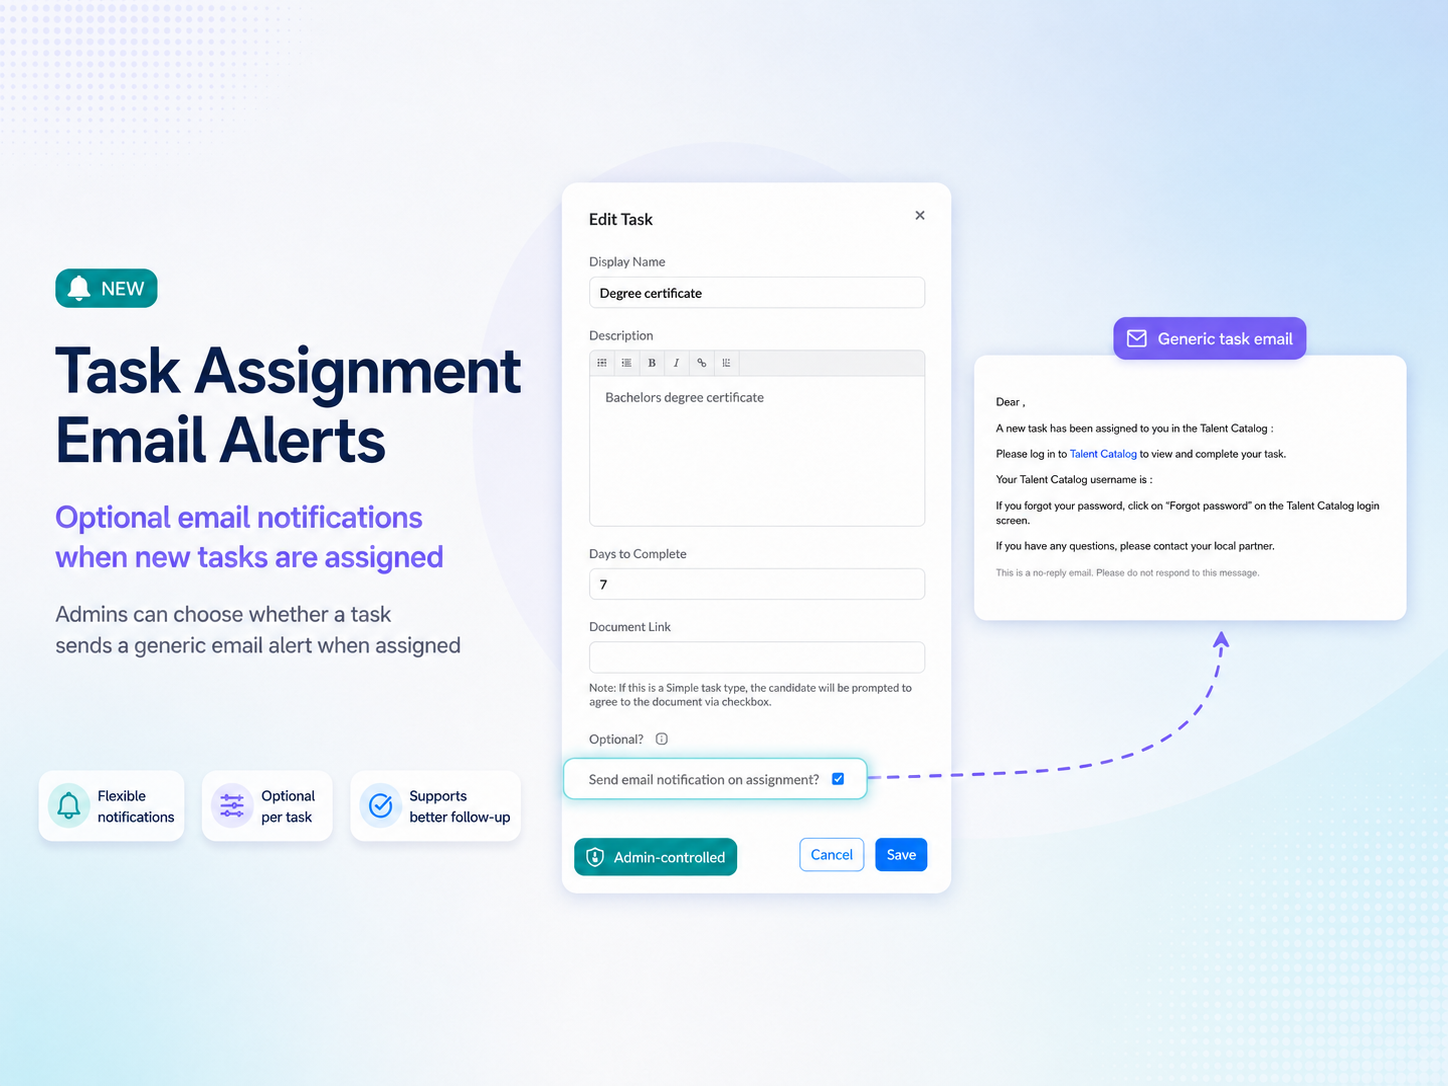
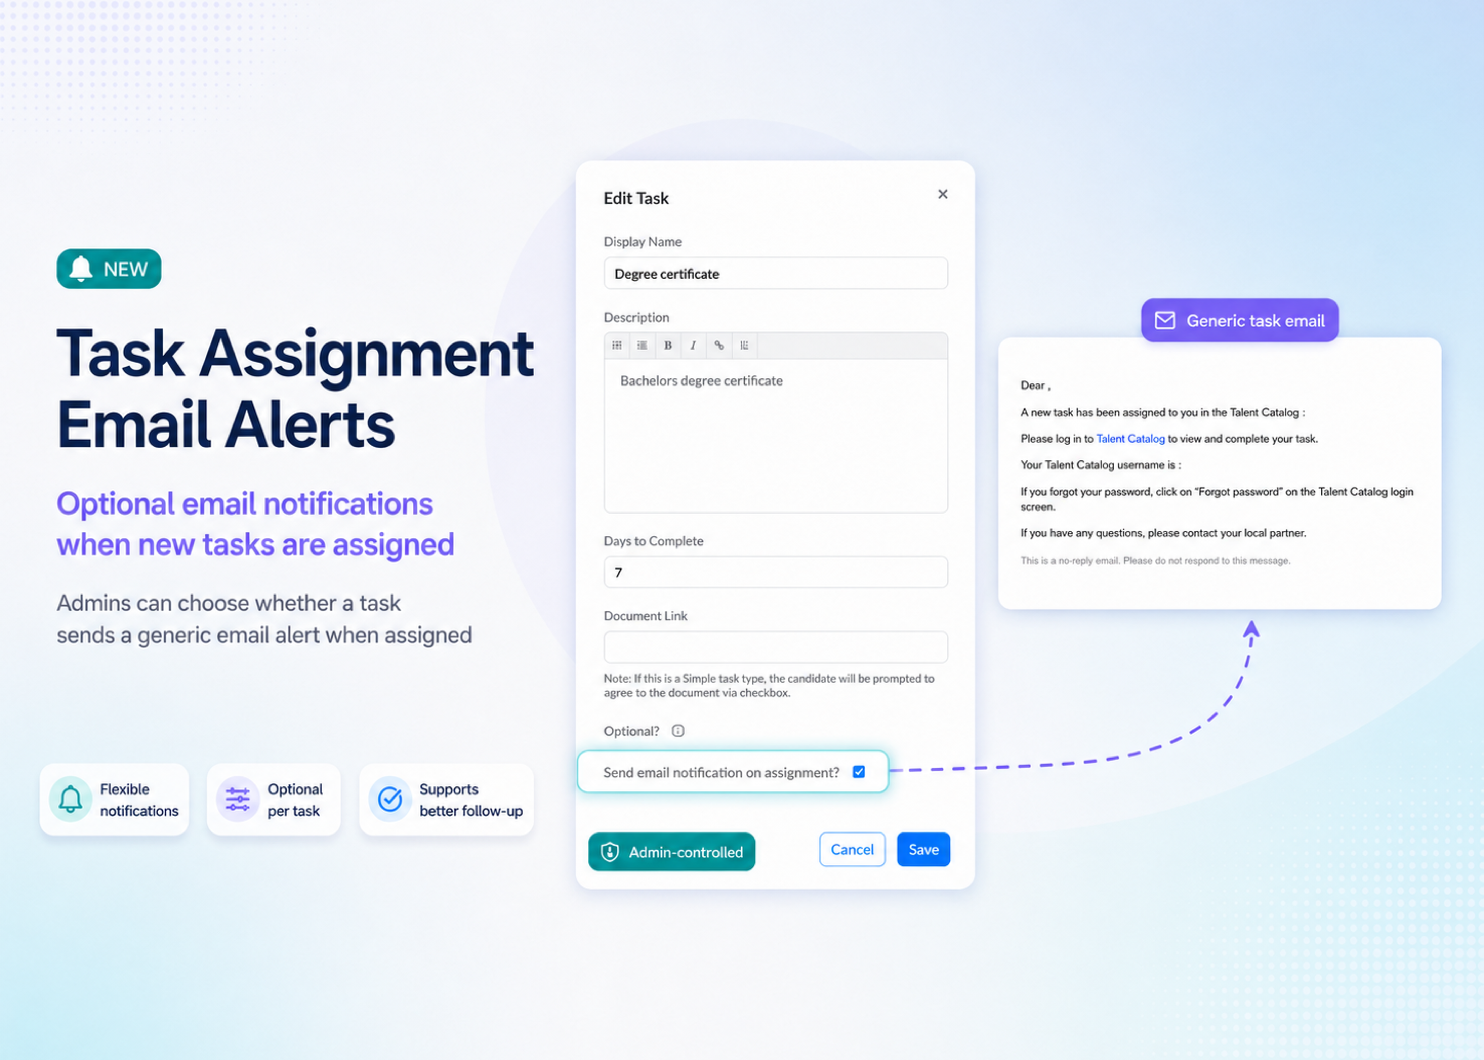
update images sizes and margin

diff --git a/docs/release_notes_v2_5_1.md b/docs/release_notes_v2_5_1.md
@@ -28,7 +28,7 @@ sass:
     </div>
   </a>
 
-  <a href="./v251/full_candidate_deletion" class="card" style="margin-top: 1rem">
+  <a href="./v251/full_candidate_deletion" class="card" style="margin-top: 2rem">
     <img src="./assets/images/v251/FullCandidateDeletion.png" alt="Full candidate deletion" class="card-image">
     <div class="card-body">
       <div class="card-footer">
@@ -37,7 +37,7 @@ sass:
     </div>
   </a>
 
-  <a href="./v251/task_email_alerts" class="card" style="margin-top: 1rem">
+  <a href="./v251/task_email_alerts" class="card" style="margin-top: 2rem">
     <img src="./assets/images/v251/TaskEmailAlerts.png" alt="Task email alerts" class="card-image">
     <div class="card-body">
       <div class="card-footer">